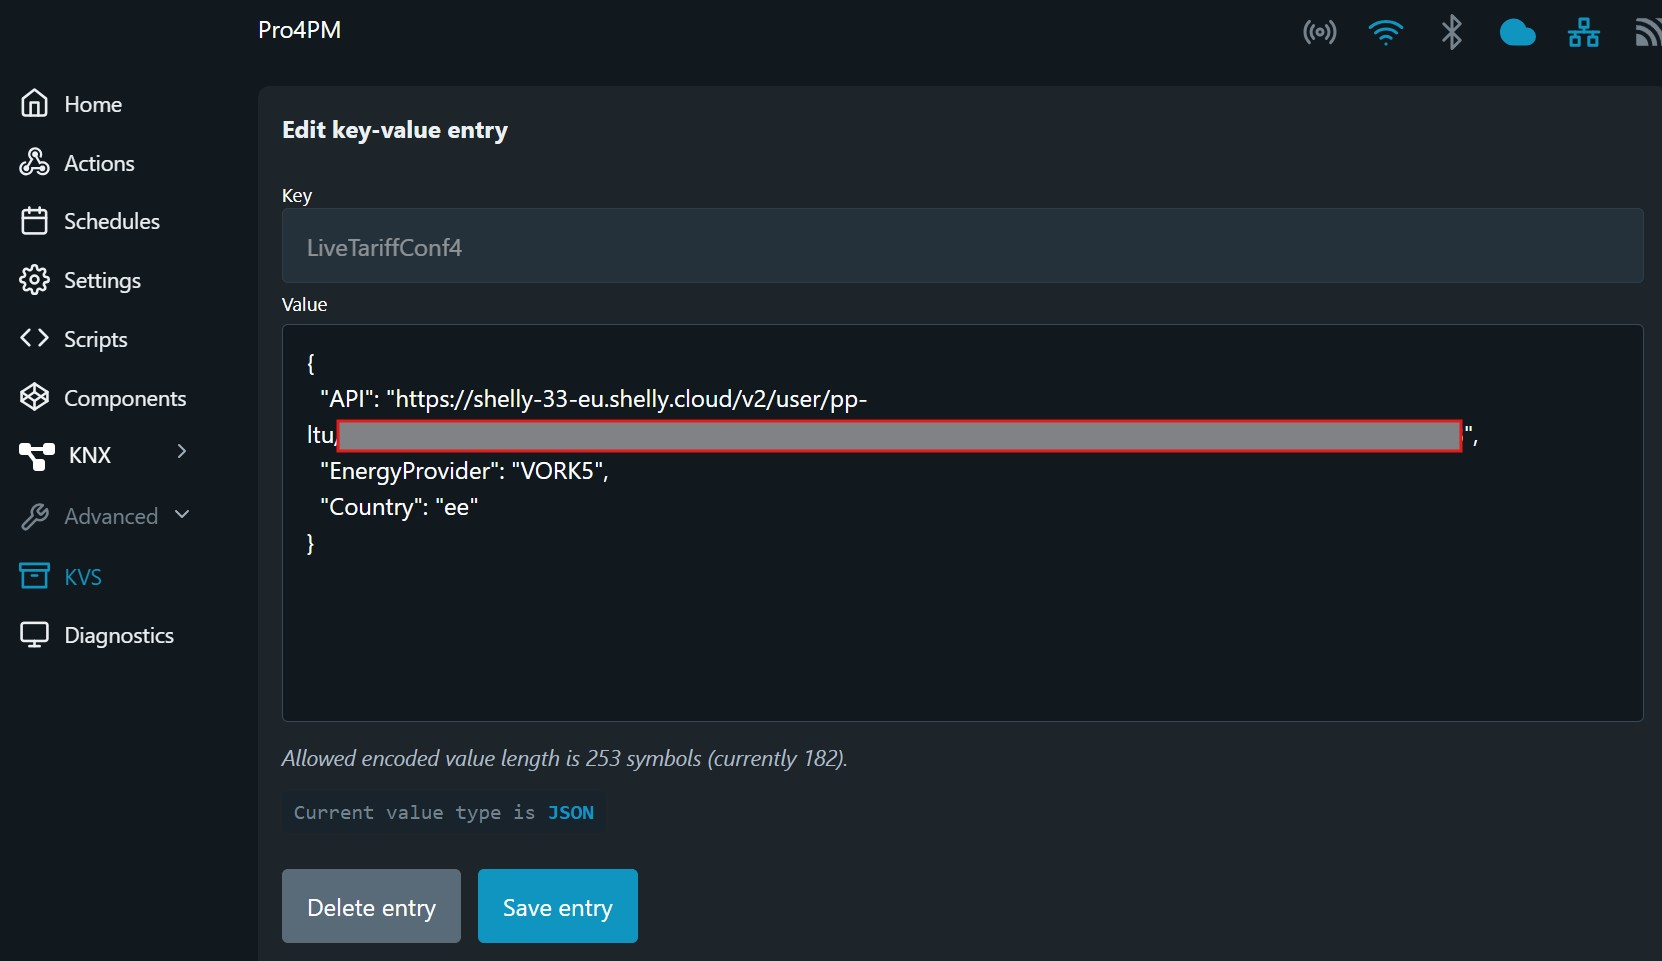
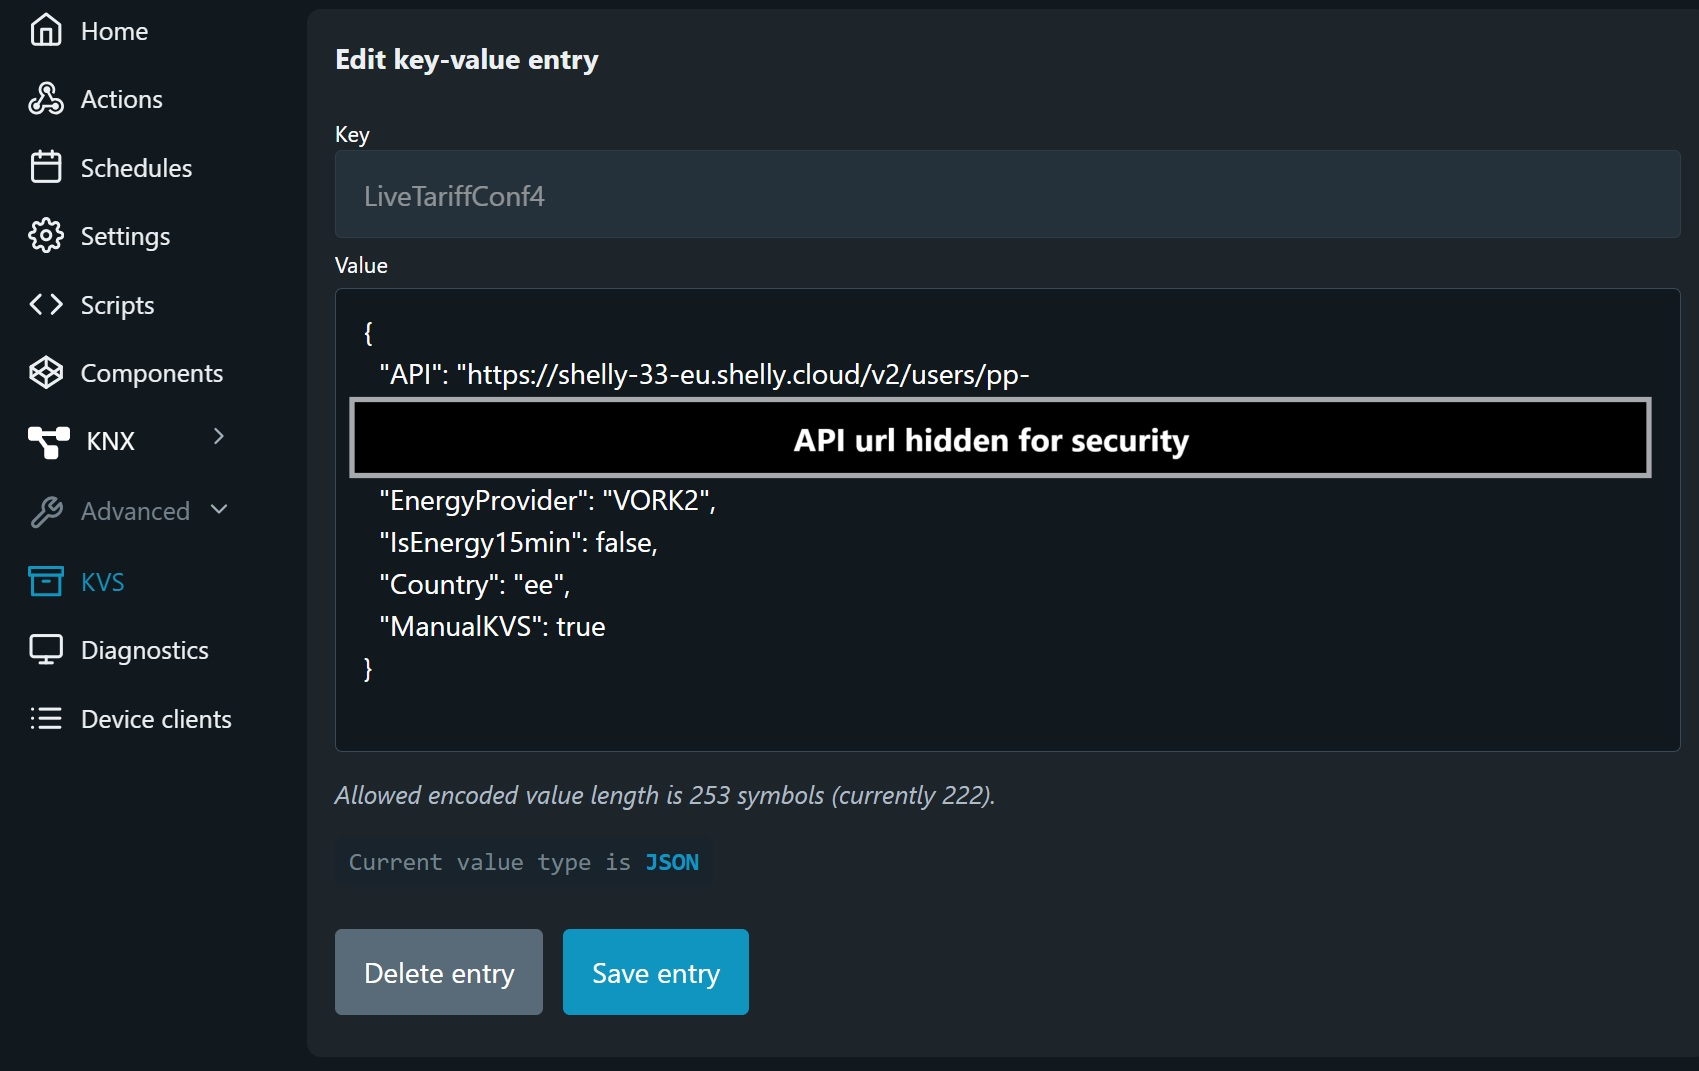
Update Readme with 15min meter support.

diff --git a/README.md b/README.md
@@ -11,6 +11,7 @@
     - [How to force script to KVS mode](#how-to-force-script-to-kvs-mode)
     - [Configuration using KVS](#configuration-using-kvs)
     - [Shelly Live Tariff Configuration](#shelly-live-tariff-configuration)
+    - [Updating the Script](#updating-the-script)
   - [Usage](#usage)
     - [Device configuration](#device-configuration)
     - [Cost monitoring](#cost-monitoring)
@@ -26,9 +27,9 @@
 This Shelly script automates electricity tariffs in the Shelly cloud by retrieving energy market prices from Elering and updating the Live Tariff hourly.
 
 - Retrieves electricity market prices from Elering.
-- Updates Shelly cloud with Live Tariffs hourly.
+- Updates Shelly cloud with Live Tariffs hourly or every 15min.
 - Supports multiple network packages and countries.
-- Stores user settings in Shelly KVS or Virtual components (gen2 Pro or gen3 devices).
+- Stores user settings in Shelly KVS or Virtual components (gen2 Pro or never devices).
 - Automatically starts on boot.
 
 ## Installation
@@ -38,11 +39,15 @@ This Shelly script automates electricity tariffs in the Shelly cloud by retrievi
 1. Copy the contents of `ShellyLiveTariff.js` to your Shelly device's script editor.
 2. Run the script to create KVS or Virtual Components.
 3. Configure script settings either in KVS or using Virtual Components.
+   - `networkPacket`: Set the energy transmission packet (`VORK2`, `Partner24` etc).
+   - `IsEnergy15min` / `Meter supports`: 1h or 15min electricity meter. Default value 1h (`false`), set it 15min or `true` only if your meter supports it.
+   - `country`: Set the country (`ee` for Estonia, `fi` for Finland etc).
+   - `apiUrl`: Shelly Cloud token.
 4. Run the script again. Now everything is fully automatic.
 
 ### Configuration using Virtual Components
 
-Shelly Gen2 Pro and Gen3 devices support **Virtual Components**, with all settings managed directly through the Shelly web page or mobile app.  
+Shelly Gen2 Pro and never devices supports **Virtual Components**, with all settings managed directly through the Shelly web page or mobile app.  
 Please make sure to configure properly Shelly API URL and Network Package, as well as country.
 
 > [!NOTE]
@@ -60,7 +65,8 @@ Open the script and set the ManualKVS parameter ``mnKv: true``. Now the script w
 
 ```js
 let c = {
-    pack: "VORK2",     // ELEKTRILEVI/IMATRA transmission fee: NONE, VORK1, VORK2, VORK4, VORK5, PARTN24, PARTN24PL, PARTN12, PARTN12PL
+    pack: "VORK2",     // NONE, VORK1, VORK2, VORK4, VORK5, PARTN24, PARTN24PL, PARTN12, PARTN12PL, PAMATA1, SPECIAL1
+    is15: false,       // 1h or 15min measurements
     cnty: "ee",        // Estonia-ee, Finland-fi, Lithuania-lt, Latvia-lv
     api: "API_url",    // Shelly Cloud token
     mnKv: false,       // Forcing KVS mode in case of Virtual components support
@@ -69,9 +75,15 @@ let c = {
 
 ### Configuration using KVS
 
+> [!IMPORTANT]
+> There is a bug in Shelly firmware version 1.7.1 that prevents saving JSON data to KVS. You can view the data, but you cannot modify or save it.
+> 
+> Therefore, when using KVS mode, the script parameters (such as network package, API URL, etc.) must be defined directly within the script itself before installation.
+
 If the script in **KVS mode**, then settings can be modified via the device's web page using its IP address: Menu → Advanced → KVS.  
 All the user settings are stored in JSON format under the key ``LiveTariffConf``.
    - `API`: Set your Shelly Cloud token.
+   - `IsEnergy15min`: 1h or 15min electricity meter. Default value 1h (`false`), set it 15min or `true` only if your meter supports it.
    - `EnergyProvider`: Choose the appropriate network package (e.g., `VORK2`, `PARTN24`, etc.).
    - `Country`: Set the country code (e.g., `ee` for Estonia, `fi` for Finland, etc.).
 
@@ -89,6 +101,8 @@ The script supports the following network packages from [Elektrilevi](https://el
 - `PARTN24P`
 - `PARTN12`
 - `PARTN12P`
+- `PAMATA1`
+- `SPECIAL1`
 - `NONE`
 
 **Supported Countries**
@@ -107,6 +121,17 @@ Configure Shelly cloud to use Live Tariff
 4. Copy API URL and paste it to Live Tariff settings.
 
 <img src="images/EnableShellyLiveTariff.jpg" alt="Enable Shelly Live Tariff" width="650">
+
+### Updating the Script
+
+To update the script, simply copy the new code into the Shelly code editor — everything will continue to work automatically, since the configuration is stored in Virtual Components or in the KVS storage.
+
+> [!IMPORTANT]
+> With the addition of 15-minute electricity meter support, a new virtual component has been introduced, which is created only during a fresh script installation.
+> Follow these steps:
+> - Delete the LiveTariffConf entry from the KVS storage.
+> - Run the script — this will trigger a new LiveTariff installation.
+> - Reconfigure the API URL and other necessary parameters.
 
 ## Usage
 

diff --git a/Readme-ET.md b/Readme-ET.md
@@ -11,6 +11,7 @@
     - [Kuidas panna skript tööle KVS-modes](#kuidas-panna-skript-tööle-kvs-modes)
     - [Skripti KVS häälestamine](#skripti-kvs-häälestamine)
     - [Shelly Live Tariff häälestamine](#shelly-live-tariff-häälestamine)
+    - [Scripti uuendamine](#scripti-uuendamine)
   - [Kasutamine](#kasutamine)
     - [Shelly häälestamine](#shelly-häälestamine)
     - [Rahalise kulu monitoorimine](#rahalise-kulu-monitoorimine)
@@ -26,9 +27,9 @@
 See Shelly skript automatiseerib elektritariifi Shelly pilves. Elektri börsihinnad laetakse alla Eleringi API kaudu ja Shelly Live Tariff uuendatakse iga tunni järel.
 
 - Börsihindade allalaadimine Eleringi API kaudu.
-- Shelly Cloud Live Tariff uuendamine iga tunni järel.
-- Toetab Elektrilevi ja Imatra võrgupakette ja nelja riiki.
-- Salvestab kasutaja seaded Shelly KVS-i või Virtuaalsetesse komponentidesse (gen2 Pro või gen3 seadmete korral).
+- Shelly Cloud Live Tariff uuendamine iga tunni või 15min järel.
+- Toetab Elektrilevi, Imatra ja Läti võrgupakette ja nelja riiki.
+- Salvestab kasutaja seaded Shelly KVS-i või Virtuaalsetesse komponentidesse (gen2 Pro või uuemate seadmete korral).
 - Skript käivitub automaatselt Shelly käivitumisel.
 
 ## Paigaldamine
@@ -37,10 +38,11 @@ See Shelly skript automatiseerib elektritariifi Shelly pilves. Elektri börsihin
 1. Kopeerige `ShellyLiveTariff.js` sisu oma Shelly seadme skriptiredaktorisse.
 2. Käivita script et tekitada Virtual Komponendid või JSON parameetrid KVS-i.
 3. Konfigureerige skripti seaded.
-4. Käivitage uuesti skript. Nüüd on kõik täisautomaatne ja rohkem midagi muuta pole tarvis.
    - `networkPacket`: Valige sobiv võrgupakett (nt `VORK2`, `Partner24` jne).
+   - `IsEnergy15min` / `Meter supports`: 1h või 15min elektriarvesti. Vaikimisi 1h, pange see 15min ehk `true` ainult juhul kui elektriarvesti seda toetab.
    - `country`: Määrake riigi kood (nt `ee` Eesti jaoks, `fi` Soome jaoks jne).
    - `apiUrl`: Siia pange oma Shelly Cloud token.
+4. Käivitage uuesti skript. Nüüd on kõik täisautomaatne ja rohkem midagi muuta pole tarvis.
 
 ### Skripti Virtual Componentide häälestamine
 
@@ -62,7 +64,8 @@ Ava skript ja pane ManualKVS parameeter ``mnKv: true``. Peale seda installeerub 
 
 ```js
 let c = {
-    pack: "VORK2",     // ELEKTRILEVI/IMATRA transmission fee: NONE, VORK1, VORK2, VORK4, VORK5, PARTN24, PARTN24PL, PARTN12, PARTN12PL
+    pack: "VORK2",     // NONE, VORK1, VORK2, VORK4, VORK5, PARTN24, PARTN24PL, PARTN12, PARTN12PL, PAMATA1, SPECIAL1
+    is15: false,       // 1h or 15min measurements
     cnty: "ee",        // Estonia-ee, Finland-fi, Lithuania-lt, Latvia-lv
     api: "API_url",    // Shelly Cloud token
     mnKv: false,       // Forcing KVS mode in case of Virtual components support
@@ -71,9 +74,15 @@ let c = {
 
 ### Skripti KVS häälestamine
 
+> [!IMPORTANT]
+> Shelly uues firmwares 1.7.1 on tootjapoolne viga, mis ei võimalda KVS json andmeid salvestada. Vaadata saab, kuid muuta ning salvestada pole võimalik.
+> 
+> Seega KVS-modes on vajalik skripti parameetrid panna paika skripti enda sees. Võrgupakett, API-url jne. 
+
 Kui skript on **KVS-modes**, saab seadeid muuta seadme veebilehe kaudu, kasutades selle IP-aadressi: Menu → Advanced → KVS.  
 Kõik kasutaja häälestused asuvad JSON formaadis parameetri ``LiveTariffConf`` all.
    - `API`: Shelly Cloud API token.
+   - `IsEnergy15min`: 1h või 15min elektriarvesti. Vaikimisi `false` ehk 1h, pange see 15min ehk `true` ainult juhul kui elektriarvesti seda toetab.
    - `EnergyProvider`: kirjuta siia võrgupaketi nimi (e.g., `VORK2`, `PARTN24`, etc.).
    - `Country`: riigikood (e.g., `ee` for Estonia, `fi` for Finland, etc.).
 
@@ -91,6 +100,8 @@ Skript toetab järgmisi [Elektrilevi](https://elektrilevi.ee/en/vorguleping/vorg
 - `Partner24Plus`
 - `Partner12`
 - `Partner12Plus`
+- `PAMATA1`
+- `SPECIAL1`
 - `NONE`
 
 **Toetatud Riigid**
@@ -109,6 +120,16 @@ Konfigureerige Shelly Cloud kasutama Live Tariffi
 4. Kopeerige API URL ja kleepige see skripti Live Tariffi seadistustesse.
 
 <img src="images/EnableShellyLiveTariff.jpg" alt="Enable Shelly Live Tariff" width="750">
+
+### Scripti uuendamine
+Scripti uuendamiseks kopeeri kood lihtsalt Shelly koodiaknasse ja kõik töötab automaatselt edasi, kuna häälestus on salvestatud Virtual komponentides või KVS-hoidlas.
+
+> [!IMPORTANT]
+> Seoses 15min elektriarvesti toetuse lisamisega tekkis juurde üks virtuaalne komponent mis tekitatakse ainult uue skripti installatsiooni korral.
+> Toimi järgmiselt:
+> - Kustuta KVS-hoidlast kirje LiveTariffConf
+> - Käivita skript, nüüd toimub uus LiveTariff installatsioon.
+> - Häälesta uuesti API url ja teised vajalikud parameetrid.
 
 ## Kasutamine
 
